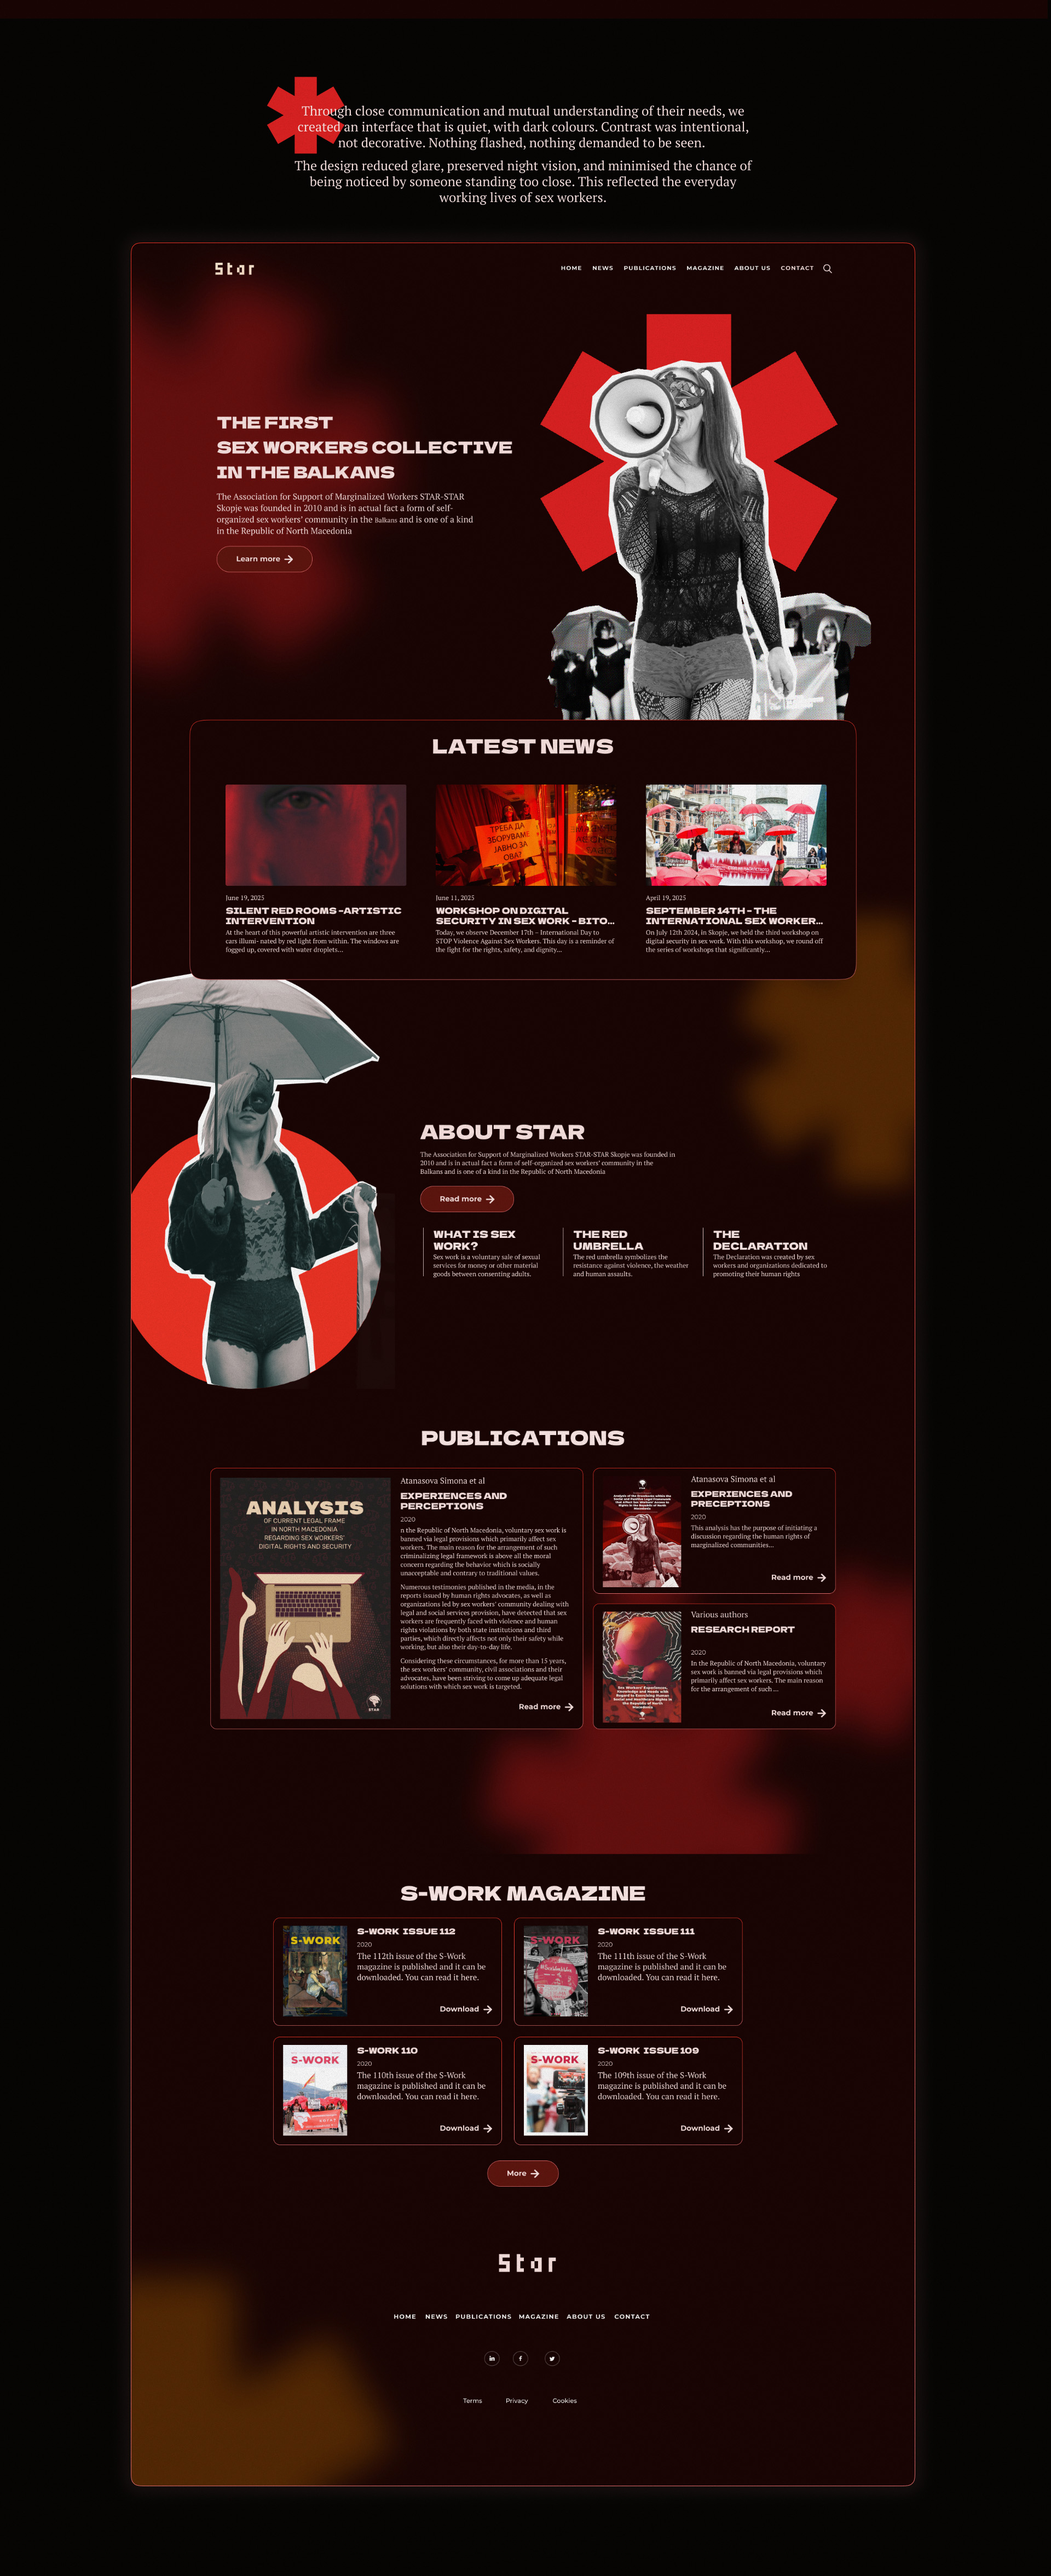
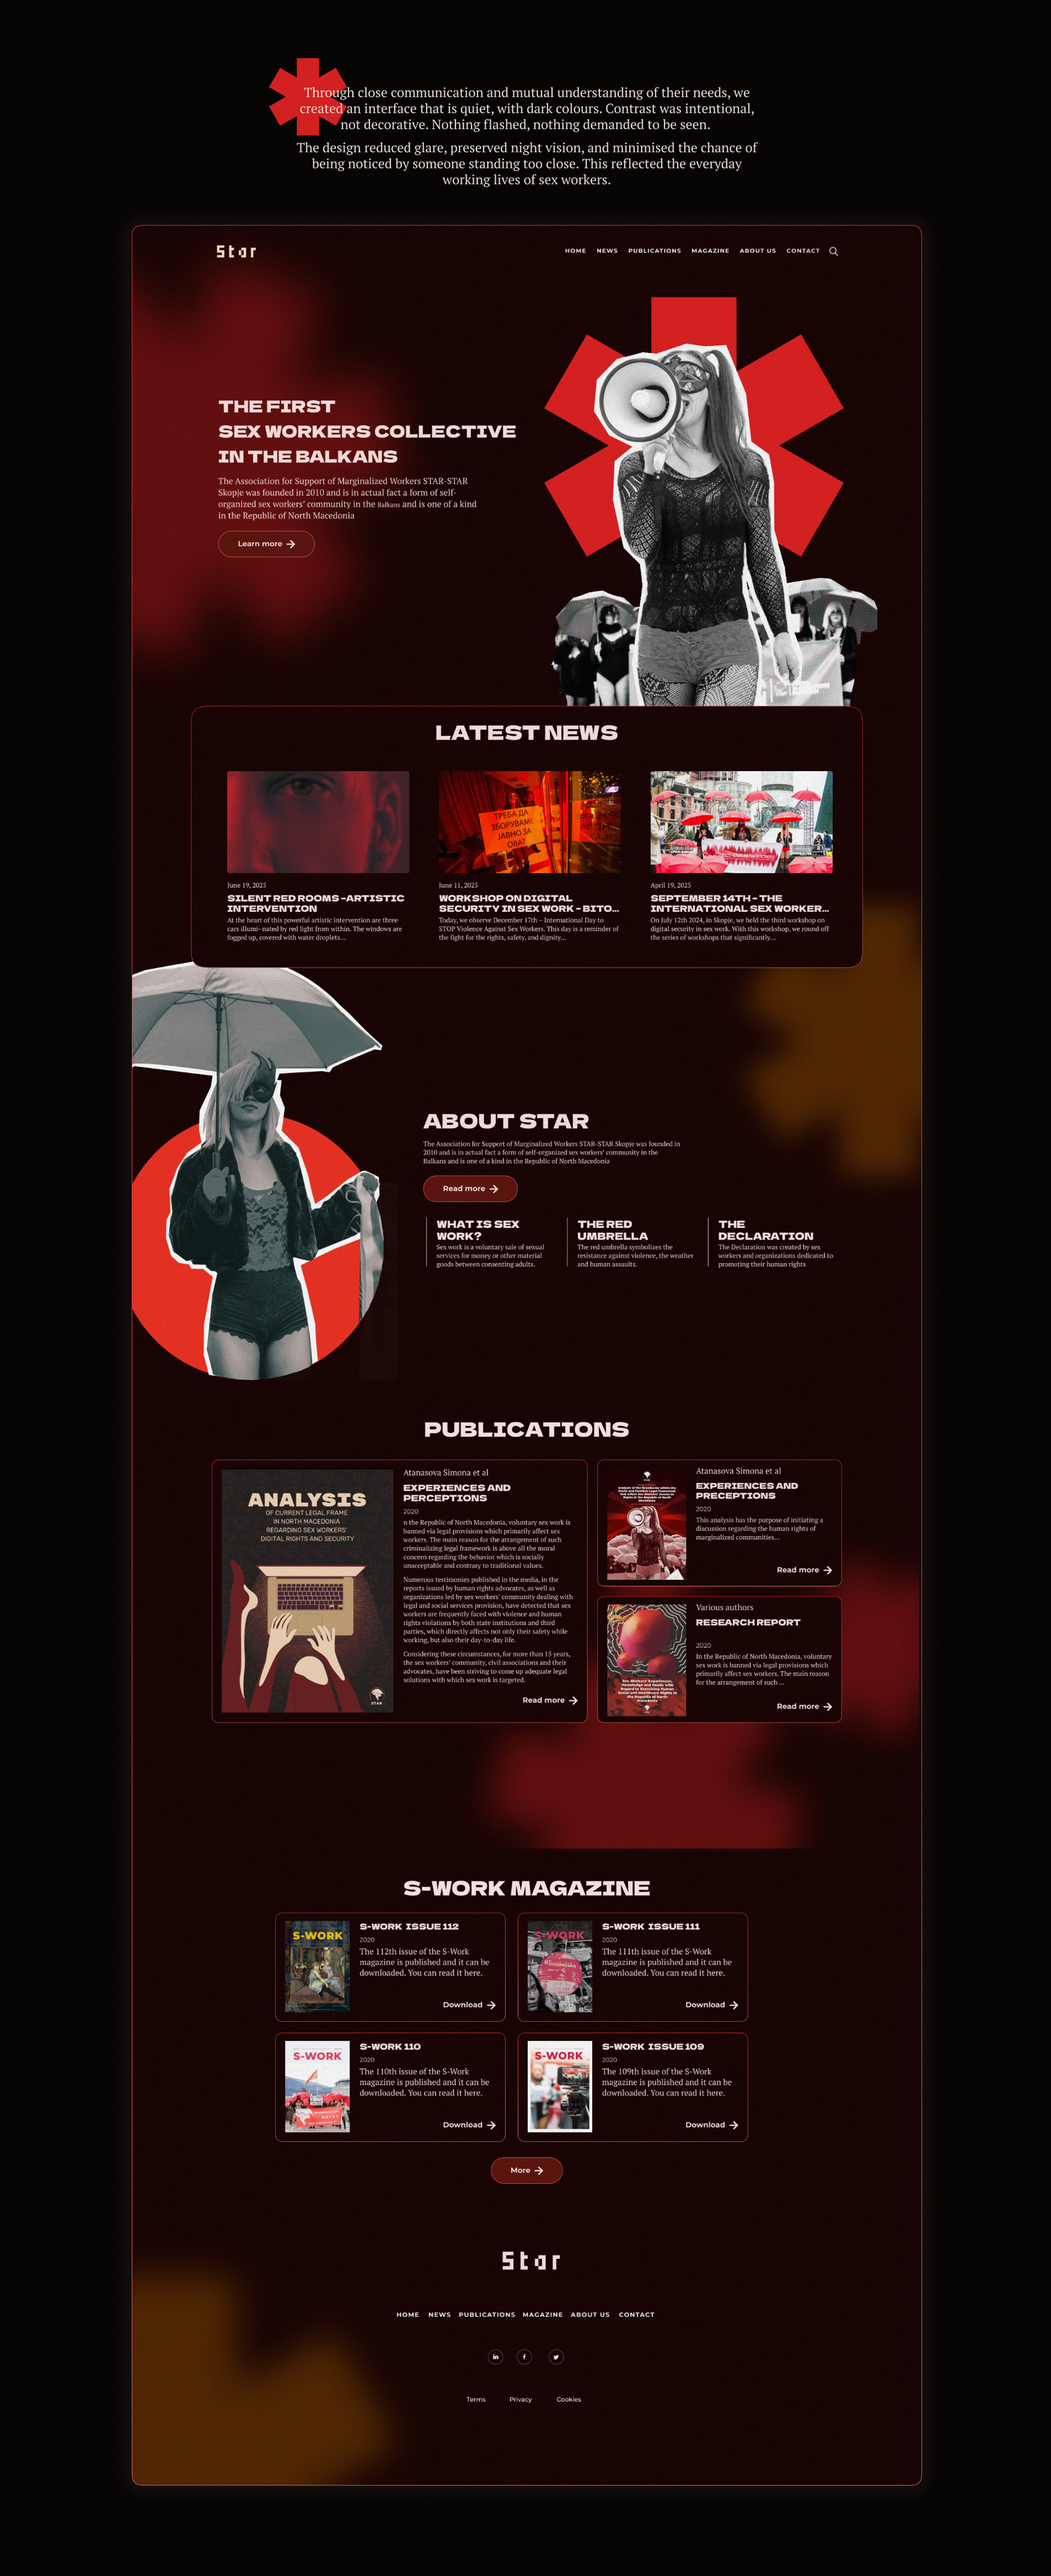
fixed the padding issue

diff --git a/index.html b/index.html
@@ -74,7 +74,7 @@
         <!-- content wrapper -->
         <div class="justify-content-center px-1 mx-1 px-xl-5 mx-xl-5">
           <!-- Hero section  -->
-          <section id="home" class="bg-text pt-5 pb-5">
+          <section id="home" class="bg-text pb-5">
             <div class="row mt-7">
               <div class="col-lg-6">
                 <div class="banner-image text-center " data-aos="fade-right">
@@ -83,7 +83,7 @@
               </div>
               <div class="col-lg-5">
                 <div class="banner-content my-1 pt-1 my-lg-5" data-aos="fade-in">
-                  <span class="text-muted">Hey, I'm Igor, a visual designer</span>
+                  <span class="text-muted">I'm Igor, a visual designer</span>
                   <h1 class="banner-title display-xl txt-fx text-fx slide-up">Ideas into matter</h1>
                 </div>
               </div>
@@ -152,18 +152,19 @@
                   <div class="caption d-flex justify-content-between align-items-center">
                   </div>
                 </div>
+                 <div class="swiper-slide">
+                  <div class="image-holder">
+                    <a href="bakery.html" title="portfolio details"><img src="images/bakery/bakery.jpg"
+                        alt="Bakery" class="img-fluid"></a>
+                  </div>
+                </div>
                 <div class="swiper-slide">
                   <div class="image-holder">
                     <a href="lostandfound.html" title="portfolio details"><img src="images/lostandfound/lostandfound_frontpage.jpg"
                         alt="lostandfound image" class="img-fluid"></a>
                   </div>
                 </div>
-                <div class="swiper-slide">
-                  <div class="image-holder">
-                    <a href="bakery.html" title="portfolio details"><img src="images/bakery/bakery.jpg"
-                        alt="Bakery" class="img-fluid"></a>
-                  </div>
-                </div>
+               
                 <div class="swiper-slide">
                   <div class="image-holder">
                     <a href="muff.html" title="portfolio details"><img src="images/muff/muff-frontpage.jpg"

diff --git a/star.html b/star.html
@@ -80,24 +80,25 @@
               </div>
               <div class="row">
                 <div class="col-lg-12">
-                  <div class="portfolio-image py-5">
+                  <div class="portfolio-image">
                     <figure>
                       <img src="./images/case-studies/star/thesite.jpg" alt="portfolio" class="img-fluid">
                 </div>
               </div>
+              </div>
               <div class="row">
                 <div class="col-lg-12">
-                  <div class="portfolio-image py-5">
+                  <div class="portfolio-image">
                     <figure>
                       <img src="./images/case-studies/star/components.jpg" alt="portfolio" class="img-fluid">
                     </figure>
-                    <figcaption>The design was componentized in Figma </figcaption>
+                    <!-- <figcaption>The design was componentized in Figma </figcaption> -->
                   </div>
                 </div>
               </div>
               <div class="row">
                 <div class="col-lg-12">
-                  <div class="portfolio-image py-5">
+                  <div class="portfolio-image">
                     <figure>
                       <img src="./images/case-studies/star/footer.png" alt="portfolio" class="img-fluid">
                     </figure>
